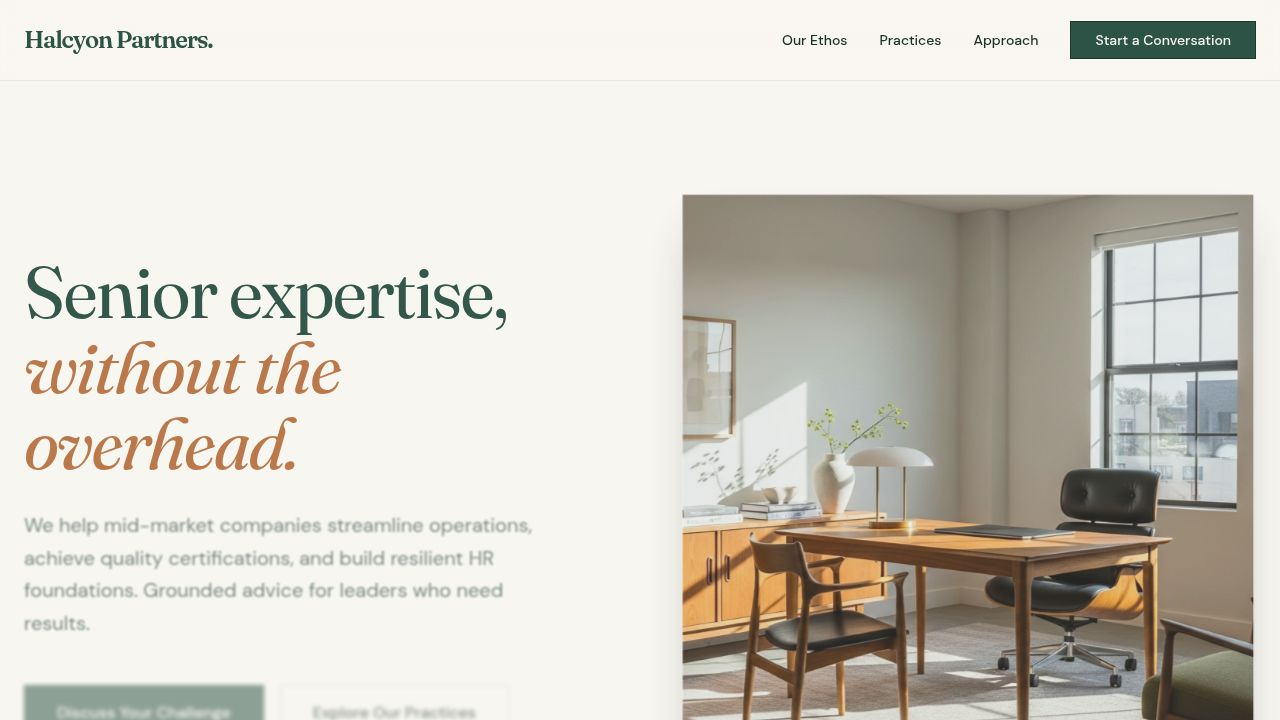
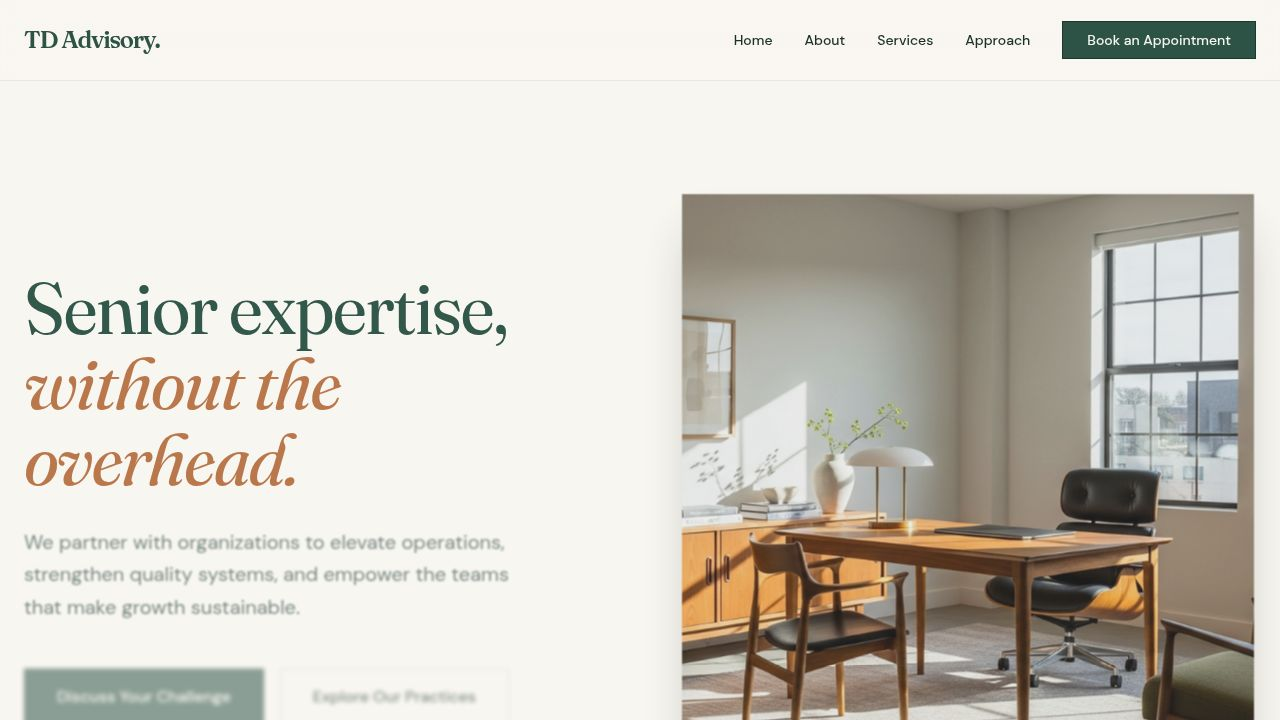
Integrate Formspree to allow website visitors to submit enquiries
Update `App.tsx` to use `@user/react` for form submission, replacing the simulated API call with actual Formspree integration. Install `@user/react` and update the contact form's `handleSubmit` logic and state management.

Replit-Commit-Author: Agent
Replit-Commit-Session-Id: 97534432-b15e-47c0-b2e6-454edf8f8c41
Replit-Commit-Checkpoint-Type: full_checkpoint
Replit-Commit-Event-Id: b200bcbb-fada-429e-9632-d19a4f77bc15
Replit-Commit-Screenshot-Url: https://storage.googleapis.com/screenshot-production-us-central1/36b2ec11-bf8a-44eb-8837-47c4f0a22bd2/97534432-b15e-47c0-b2e6-454edf8f8c41/HhJBRtR
Replit-Helium-Checkpoint-Created: true

diff --git a/artifacts/site/src/App.tsx b/artifacts/site/src/App.tsx
@@ -2,7 +2,7 @@ import { Switch, Route, Router as WouterRouter } from "wouter";
 import { QueryClient, QueryClientProvider } from "@tanstack/react-query";
 import { Toaster } from "@/components/ui/toaster";
 import { TooltipProvider } from "@/components/ui/tooltip";
-import { useToast } from "@/hooks/use-toast";
+import { useForm, ValidationError } from "@formspree/react";
 import NotFound from "@/pages/not-found";
 import { motion, useScroll, useTransform } from "framer-motion";
 import { Button } from "@/components/ui/button";
@@ -372,24 +372,8 @@ function Approach() {
 }
 
 function Contact() {
-  const { toast } = useToast();
-  const [isSubmitting, setIsSubmitting] = useState(false);
-
-  const handleSubmit = (e: React.FormEvent) => {
-    e.preventDefault();
-    setIsSubmitting(true);
-    
-    // Simulate API call
-    setTimeout(() => {
-      setIsSubmitting(false);
-      toast({
-        title: "Message received.",
-        description: "One of our senior partners will contact you within 24 hours.",
-        duration: 5000,
-      });
-      (e.target as HTMLFormElement).reset();
-    }, 1500);
-  };
+  const [state, handleSubmit] = useForm("xaqaanbr");
+  const [interest, setInterest] = useState("");
 
   return (
     <section id="contact" className="py-24 md:py-32 px-6">
@@ -416,48 +400,60 @@ function Contact() {
 
         <FadeIn delay={0.2}>
           <div className="bg-white p-8 md:p-12 border border-border shadow-sm">
-            <form onSubmit={handleSubmit} className="space-y-6">
-              <div className="grid grid-cols-1 md:grid-cols-2 gap-6">
-                <div className="space-y-2">
-                  <label htmlFor="name" className="text-sm font-medium text-primary">Full Name</label>
-                  <Input id="name" required className="rounded-none h-12 bg-background border-border focus-visible:ring-primary focus-visible:border-primary" />
+            {state.succeeded ? (
+              <div className="flex flex-col items-center justify-center h-full py-16 text-center space-y-4">
+                <CheckCircle2 className="w-12 h-12 text-accent" />
+                <h3 className="text-2xl font-serif text-primary">Message received.</h3>
+                <p className="text-muted-foreground">One of our senior partners will contact you within 24 hours.</p>
+              </div>
+            ) : (
+              <form onSubmit={handleSubmit} className="space-y-6">
+                <div className="grid grid-cols-1 md:grid-cols-2 gap-6">
+                  <div className="space-y-2">
+                    <label htmlFor="name" className="text-sm font-medium text-primary">Full Name</label>
+                    <Input id="name" name="name" required className="rounded-none h-12 bg-background border-border focus-visible:ring-primary focus-visible:border-primary" />
+                    <ValidationError field="name" errors={state.errors} className="text-xs text-red-500" />
+                  </div>
+                  <div className="space-y-2">
+                    <label htmlFor="company" className="text-sm font-medium text-primary">Company</label>
+                    <Input id="company" name="company" required className="rounded-none h-12 bg-background border-border focus-visible:ring-primary focus-visible:border-primary" />
+                  </div>
                 </div>
+                
                 <div className="space-y-2">
-                  <label htmlFor="company" className="text-sm font-medium text-primary">Company</label>
-                  <Input id="company" required className="rounded-none h-12 bg-background border-border focus-visible:ring-primary focus-visible:border-primary" />
+                  <label htmlFor="email" className="text-sm font-medium text-primary">Work Email</label>
+                  <Input id="email" name="email" type="email" required className="rounded-none h-12 bg-background border-border focus-visible:ring-primary focus-visible:border-primary" />
+                  <ValidationError field="email" errors={state.errors} className="text-xs text-red-500" />
                 </div>
-              </div>
-              
-              <div className="space-y-2">
-                <label htmlFor="email" className="text-sm font-medium text-primary">Work Email</label>
-                <Input id="email" type="email" required className="rounded-none h-12 bg-background border-border focus-visible:ring-primary focus-visible:border-primary" />
-              </div>
 
-              <div className="space-y-2">
-                <label htmlFor="interest" className="text-sm font-medium text-primary">Area of Interest</label>
-                <Select required>
-                  <SelectTrigger className="rounded-none h-12 bg-background border-border focus:ring-primary focus:border-primary">
-                    <SelectValue placeholder="Select a practice area" />
-                  </SelectTrigger>
-                  <SelectContent className="rounded-none">
-                    <SelectItem value="ops">Operations Consulting</SelectItem>
-                    <SelectItem value="quality">Laboratory Quality (ISO 15189)</SelectItem>
-                    <SelectItem value="hr">Human Resources Support</SelectItem>
-                    <SelectItem value="other">General Enquiry</SelectItem>
-                  </SelectContent>
-                </Select>
-              </div>
+                <div className="space-y-2">
+                  <label htmlFor="interest" className="text-sm font-medium text-primary">Area of Interest</label>
+                  <input type="hidden" name="interest" value={interest} />
+                  <Select required onValueChange={setInterest}>
+                    <SelectTrigger className="rounded-none h-12 bg-background border-border focus:ring-primary focus:border-primary">
+                      <SelectValue placeholder="Select a practice area" />
+                    </SelectTrigger>
+                    <SelectContent className="rounded-none">
+                      <SelectItem value="Operations Consulting">Operations Consulting</SelectItem>
+                      <SelectItem value="Laboratory Management (ISO 15189)">Laboratory Management (ISO 15189)</SelectItem>
+                      <SelectItem value="Human Resources Support">Human Resources Support</SelectItem>
+                      <SelectItem value="General Enquiry">General Enquiry</SelectItem>
+                    </SelectContent>
+                  </Select>
+                </div>
 
-              <div className="space-y-2">
-                <label htmlFor="message" className="text-sm font-medium text-primary">Brief Description of Needs</label>
-                <Textarea id="message" required className="rounded-none min-h-[120px] bg-background border-border focus-visible:ring-primary focus-visible:border-primary resize-y" />
-              </div>
+                <div className="space-y-2">
+                  <label htmlFor="message" className="text-sm font-medium text-primary">Brief Description of Needs</label>
+                  <Textarea id="message" name="message" required className="rounded-none min-h-[120px] bg-background border-border focus-visible:ring-primary focus-visible:border-primary resize-y" />
+                  <ValidationError field="message" errors={state.errors} className="text-xs text-red-500" />
+                </div>
 
-              <Button type="submit" disabled={isSubmitting} className="w-full rounded-none h-14 text-base bg-primary hover:bg-primary/90 mt-4 group">
-                {isSubmitting ? "Sending..." : "Submit Enquiry"}
-                {!isSubmitting && <ArrowRight className="ml-2 w-4 h-4 group-hover:translate-x-1 transition-transform" />}
-              </Button>
-            </form>
+                <Button type="submit" disabled={state.submitting} className="w-full rounded-none h-14 text-base bg-primary hover:bg-primary/90 mt-4 group">
+                  {state.submitting ? "Sending..." : "Submit Enquiry"}
+                  {!state.submitting && <ArrowRight className="ml-2 w-4 h-4 group-hover:translate-x-1 transition-transform" />}
+                </Button>
+              </form>
+            )}
           </div>
         </FadeIn>
       </div>